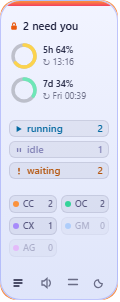
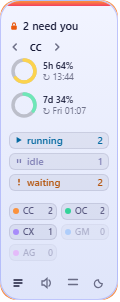
feat: page through per-harness usage in the pill
The pill had room for one harness worth of usage and spent it all on Claude,
which was also the only harness whose numbers were shown at all. Now the block
is a pager: chevrons step through the detected harnesses, Claude Code is the
default since it is the only one with a plan window, and the choice persists.

Claude keeps its two rings. Every other harness shows what it genuinely
reports - tokens plus cost where it knows one, or "no usage reported" rather
than a zero that reads as free. Paging instead of blending is the point: a
percentage of a subscription and a token count are not comparable, and putting
them side by side would imply they are.

Adds ?usage=<harness> to the preview harness, since a headless screenshot
cannot click a chevron.

diff --git a/src/components/UsagePager.tsx b/src/components/UsagePager.tsx
@@ -1,0 +1,155 @@
+import { HARNESS_CODE, HARNESS_LABEL, type HarnessId, type Snapshot } from "../types";
+import { formatCost, formatTokens, tokenBreakdown, tokenHeadline } from "../lib/format";
+import { useMonitor } from "../store/useMonitor";
+import { Quota } from "./Quota";
+
+/**
+ * The pill has room for one harness's usage at a time, so it pages.
+ *
+ * Claude Code is the default and the only one with a plan window - the rings.
+ * Every other harness bills per token, so its page shows what it actually
+ * reports: tokens, and cost where it knows one. Paging rather than blending
+ * keeps those two kinds of number from being read as comparable.
+ */
+export function UsagePager({
+  snapshot,
+  now,
+  tone,
+  stack,
+}: {
+  snapshot: Snapshot | null;
+  now: number;
+  tone: { title: string; sub: string };
+  stack?: boolean;
+}) {
+  const { usageHarness, cycleUsage } = useMonitor();
+  const available = snapshot?.detected ?? [];
+  const harness: HarnessId = available.includes(usageHarness)
+    ? usageHarness
+    : (available[0] ?? "claude-code");
+
+  return (
+    <div className="flex flex-col gap-0.5">
+      <div className="flex items-center gap-0.5">
+        <Chevron
+          direction="prev"
+          disabled={available.length < 2}
+          tone={tone.sub}
+          onClick={() => cycleUsage(-1, available)}
+        />
+        <span
+          data-tauri-drag-region
+          title={`Usage for ${HARNESS_LABEL[harness]}${
+            available.length > 1 ? " — arrows page through the others" : ""
+          }`}
+          className={`min-w-[1.6rem] text-center text-[9px] font-bold tracking-wide ${tone.title}`}
+        >
+          {HARNESS_CODE[harness]}
+        </span>
+        <Chevron
+          direction="next"
+          disabled={available.length < 2}
+          tone={tone.sub}
+          onClick={() => cycleUsage(1, available)}
+        />
+      </div>
+
+      {harness === "claude-code" ? (
+        <Quota
+          quota={snapshot?.quota ?? null}
+          now={now}
+          tone={tone}
+          stack={stack}
+          pending={!snapshot}
+        />
+      ) : (
+        <HarnessUsage snapshot={snapshot} harness={harness} tone={tone} />
+      )}
+    </div>
+  );
+}
+
+function HarnessUsage({
+  snapshot,
+  harness,
+  tone,
+}: {
+  snapshot: Snapshot | null;
+  harness: HarnessId;
+  tone: { title: string; sub: string };
+}) {
+  const sessions = (snapshot?.sessions ?? []).filter((s) => s.key.harness === harness);
+  let tokens = 0;
+  let cost = 0;
+  for (const session of sessions) {
+    if (session.tokens) tokens += tokenHeadline(session.tokens);
+    if (session.cost) cost += session.cost;
+  }
+
+  if (sessions.length === 0) {
+    return (
+      <span className={`whitespace-nowrap text-[9px] ${tone.sub}`}>no live sessions</span>
+    );
+  }
+
+  const breakdown = sessions
+    .filter((s) => s.tokens)
+    .map((s) => `${s.name ?? s.session_id.slice(0, 8)}: ${tokenBreakdown(s.tokens!)}`)
+    .join("\n");
+
+  return (
+    <div
+      data-tauri-drag-region
+      title={breakdown || `${sessions.length} session(s)`}
+      className="flex flex-col leading-tight"
+    >
+      {/* Three cases, and never the same fact twice: tokens over cost, tokens
+          over a session count, or - for a harness that reports neither - the
+          count over an explicit "nothing reported". */}
+      <span className={`whitespace-nowrap text-[9px] font-semibold tabular-nums ${tone.title}`}>
+        {tokens > 0 ? `${formatTokens(tokens)} tok` : `${sessions.length} live`}
+      </span>
+      <span className={`whitespace-nowrap text-[9px] tabular-nums ${tone.sub}`}>
+        {cost > 0
+          ? formatCost(cost)
+          : tokens > 0
+            ? `${sessions.length} session${sessions.length > 1 ? "s" : ""}`
+            : "no usage reported"}
+      </span>
+    </div>
+  );
+}
+
+function Chevron({
+  direction,
+  disabled,
+  tone,
+  onClick,
+}: {
+  direction: "prev" | "next";
+  disabled: boolean;
+  tone: string;
+  onClick: () => void;
+}) {
+  return (
+    <button
+      onClick={onClick}
+      disabled={disabled}
+      title={direction === "prev" ? "Previous harness" : "Next harness"}
+      className={`rounded p-px transition hover:bg-indigo-950/10 disabled:opacity-30 disabled:hover:bg-transparent dark:hover:bg-white/10 ${tone}`}
+    >
+      <svg
+        viewBox="0 0 10 10"
+        className="h-2.5 w-2.5"
+        fill="none"
+        stroke="currentColor"
+        strokeWidth="1.6"
+        strokeLinecap="round"
+        strokeLinejoin="round"
+        aria-hidden="true"
+      >
+        {direction === "prev" ? <path d="M6.2 2 3.2 5l3 3" /> : <path d="M3.8 2l3 3-3 3" />}
+      </svg>
+    </button>
+  );
+}

diff --git a/src/store/useMonitor.ts b/src/store/useMonitor.ts
@@ -2,7 +2,7 @@ import { create } from "zustand";
 import { invoke } from "@tauri-apps/api/core";
 import { listen } from "@tauri-apps/api/event";
 import { MOCK_SNAPSHOT } from "../lib/mock";
-import type { Snapshot } from "../types";
+import type { HarnessId, Snapshot } from "../types";
 
 type Theme = "light" | "dark";
 type Orientation = "horizontal" | "vertical";
@@ -13,6 +13,9 @@ interface MonitorState {
   toggleTheme: () => void;
   orientation: Orientation;
   toggleOrientation: () => Promise<void>;
+  /** Which harness the pill's usage pager is showing. */
+  usageHarness: HarnessId;
+  cycleUsage: (delta: number, available: HarnessId[]) => void;
   /** Last action error, shown briefly in the panel footer. */
   error: string | null;
   focusSession: (target: string) => Promise<void>;
@@ -49,6 +52,18 @@ function readTheme(): Theme {
   }
 }
 
+/** Claude Code by default: it is the only harness with a plan window. */
+function readUsageHarness(): HarnessId {
+  const override = new URLSearchParams(location.search).get("usage");
+  if (override) return override as HarnessId;
+  try {
+    const stored = localStorage.getItem("hm.usageHarness");
+    return (stored as HarnessId) || "claude-code";
+  } catch {
+    return "claude-code";
+  }
+}
+
 function readOrientation(): Orientation {
   const override = new URLSearchParams(location.search).get("orientation");
   if (override === "vertical" || override === "horizontal") return override;
@@ -63,6 +78,7 @@ export const useMonitor = create<MonitorState>((set, get) => ({
   snapshot: null,
   theme: readTheme(),
   orientation: readOrientation(),
+  usageHarness: readUsageHarness(),
   error: null,
   receivedAt: null,
   startedAt: Date.now(),
@@ -134,6 +150,20 @@ export const useMonitor = create<MonitorState>((set, get) => ({
       // Private mode or blocked storage: the choice just won't survive a restart.
     }
     set({ theme });
+  },
+
+  cycleUsage: (delta: number, available: HarnessId[]) => {
+    if (available.length === 0) return;
+    const current = available.indexOf(get().usageHarness);
+    // A harness that has since disappeared leaves index -1; stepping from
+    // there lands on the first entry, which is what you want.
+    const next = available[(current + delta + available.length) % available.length];
+    try {
+      localStorage.setItem("hm.usageHarness", next);
+    } catch {
+      // Private mode: the choice just won't survive a restart.
+    }
+    set({ usageHarness: next });
   },
 
   focusSession: async (target: string) => {

diff --git a/src/components/Pill.tsx b/src/components/Pill.tsx
@@ -2,7 +2,7 @@ import { modeOf, surfaceFor } from "../lib/theme";
 import { useMonitor } from "../store/useMonitor";
 import { DragGrip } from "./DragGrip";
 import { HarnessChips } from "./HarnessChips";
-import { Quota } from "./Quota";
+import { UsagePager } from "./UsagePager";
 import { StatStrip } from "./StatStrip";
 import { Glyph } from "./StateBadge";
 
@@ -123,7 +123,7 @@ export function Pill() {
               {headline}
             </span>
           </div>
-          <Quota quota={snapshot?.quota ?? null} now={now} tone={surface} stack pending={!snapshot} />
+          <UsagePager snapshot={snapshot} now={now} tone={surface} stack />
         </div>
 
         <StatStrip sessions={sessions} vertical />
@@ -175,7 +175,7 @@ export function Pill() {
         </div>
       </div>
 
-      <Quota quota={snapshot?.quota ?? null} now={now} tone={surface} stack pending={!snapshot} />
+      <UsagePager snapshot={snapshot} now={now} tone={surface} stack />
 
       {/* Four icons in 2x2: a single column would not fit 80px of height. */}
       <div className="grid grid-cols-2 gap-px">{controls}</div>

diff --git a/README.md b/README.md
@@ -132,8 +132,10 @@ no per-session price to report). Harness headers total their group. Claude
 Code's figures come from tailing the session transcript, so they are a running
 total from when the app first saw that session.
 
-On the right sit **both Claude plan windows** - 5-hour and 7-day - each as a
-ring paired with its figure - `5h 64%` on one line, the wall-clock reset time
+On the right sits the **usage pager**: `‹ CC ›` steps through the detected
+harnesses, and the choice is remembered. Claude Code is the default because it
+is the only one with a plan window - its page shows **both windows**, 5-hour and
+7-day, each as a ring paired with its figure - `5h 64%` on one line, the wall-clock reset time
 under it (`↻ 12:22`, or `↻ Fri 00:05` when the reset is days out). The
 percentage sits in the label rather than inside the ring, where `64%` cannot be
 drawn legibly at 30px and a bare `64` reads as a count. A countdown
@@ -141,10 +143,16 @@ answers "how long"; a clock answers "when can I start again", which is the
 thing you plan around. Hovering gives both, plus which source the reading came
 from.
 
-**Only Claude Code has a plan window.** The other harnesses bill per token and
-expose no equivalent, so the rings are labelled as Claude's and everything else
-reports tokens and cost per session. A single blended "usage" number across
-harnesses would be a fiction, so there isn't one.
+Every other harness pages to what it actually reports - tokens, and cost where
+it knows one (`462k tok / $0.92`), or an explicit "no usage reported" rather
+than a zero that would read as free.
+
+![Paging to opencode usage](docs/usage-opencode.png)
+
+**Only Claude Code has a plan window.** The others bill per token and expose no
+equivalent, which is exactly why this pages instead of blending: a percentage of
+a subscription and a token count are not comparable numbers, and stacking them
+in one row would imply they are.
 
 Per-session state is carried three ways, so colour is never the only channel:
 

diff --git a/CHANGELOG.md b/CHANGELOG.md
@@ -20,6 +20,11 @@ Notable changes to HarnessMonitor. Format follows
   Claude Code's token figures are new - its state file has none, so the adapter
   now tails the session transcript with a byte cursor and folds in only what was
   appended, skipping sidechain lines so subagent turns are not double-counted.
+- A **usage pager** in the pill: `‹ CC ›` steps through the detected harnesses,
+  defaulting to Claude Code and remembering the choice. Claude's page shows the
+  5h/7d plan rings; every other harness shows the tokens and cost it reports.
+  Paging rather than blending, because a percentage of a subscription and a
+  token count are not comparable figures.
 - A line in the expanded list stating that the 5h/7d rings are Claude's plan
   window and that other harnesses bill per token, since nothing else exposes an
   equivalent and a blended figure would be fiction.
